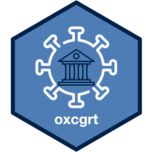
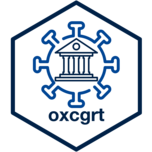
update docs/ outputs

diff --git a/docs/index.html b/docs/index.html
@@ -89,7 +89,7 @@
   <div class="contents col-md-9">
 <div id="oxcgrt-an-interface-to-the-oxford-covid-19-government-response-tracker-api-" class="section level1">
 <div class="page-header"><h1 class="hasAnchor">
-<a href="#oxcgrt-an-interface-to-the-oxford-covid-19-government-response-tracker-api-" class="anchor"></a>oxcgrt: An Interface to the Oxford COVID-19 Government Response Tracker API <img src="reference/figures/oxcgrt.png" width="200" align="right">
+<a href="#oxcgrt-an-interface-to-the-oxford-covid-19-government-response-tracker-api-" class="anchor"></a>oxcgrt: An Interface to the Oxford COVID-19 Government Response Tracker API <img src="reference/figures/logo.png" width="200" align="right">
 </h1></div>
 <!-- badges: start -->
 
@@ -141,16 +141,16 @@ And the development version from [GitHub](https://github.com/) with:
 <div class="sourceCode" id="cb3"><pre class="sourceCode R"><code class="sourceCode r"><span id="cb3-1"><a href="#cb3-1"></a><span class="co">#&gt; # A tibble: 28,208 x 8</span></span>
 <span id="cb3-2"><a href="#cb3-2"></a><span class="co">#&gt;    date_value country_code confirmed deaths stringency_actu… stringency</span></span>
 <span id="cb3-3"><a href="#cb3-3"></a><span class="co">#&gt;    &lt;date&gt;     &lt;chr&gt;            &lt;int&gt;  &lt;int&gt;            &lt;dbl&gt;      &lt;dbl&gt;</span></span>
-<span id="cb3-4"><a href="#cb3-4"></a><span class="co">#&gt;  1 2020-06-01 SEN               3645     42             72.2       72.2</span></span>
-<span id="cb3-5"><a href="#cb3-5"></a><span class="co">#&gt;  2 2020-06-01 SGP              34884     23             81.5       81.5</span></span>
-<span id="cb3-6"><a href="#cb3-6"></a><span class="co">#&gt;  3 2020-06-01 SLB                 NA     NA             33.3       33.3</span></span>
-<span id="cb3-7"><a href="#cb3-7"></a><span class="co">#&gt;  4 2020-06-01 SLE                861     46             73.2       73.2</span></span>
-<span id="cb3-8"><a href="#cb3-8"></a><span class="co">#&gt;  5 2020-06-01 SLV               2517     46            100        100  </span></span>
-<span id="cb3-9"><a href="#cb3-9"></a><span class="co">#&gt;  6 2020-06-01 SMR                671     42             57.4       57.4</span></span>
-<span id="cb3-10"><a href="#cb3-10"></a><span class="co">#&gt;  7 2020-06-01 SOM               1976     78             48.2       48.2</span></span>
-<span id="cb3-11"><a href="#cb3-11"></a><span class="co">#&gt;  8 2020-06-01 SRB              11412    243             43.5       43.5</span></span>
-<span id="cb3-12"><a href="#cb3-12"></a><span class="co">#&gt;  9 2020-06-01 SSD                994     10             85.2       85.2</span></span>
-<span id="cb3-13"><a href="#cb3-13"></a><span class="co">#&gt; 10 2020-06-01 SUR                 23      1             77.8       77.8</span></span>
+<span id="cb3-4"><a href="#cb3-4"></a><span class="co">#&gt;  1 2020-06-01 ABW                101      3             38.9       38.9</span></span>
+<span id="cb3-5"><a href="#cb3-5"></a><span class="co">#&gt;  2 2020-06-01 AFG              15205    257             84.3       84.3</span></span>
+<span id="cb3-6"><a href="#cb3-6"></a><span class="co">#&gt;  3 2020-06-01 AGO                 86      4             77.8       77.8</span></span>
+<span id="cb3-7"><a href="#cb3-7"></a><span class="co">#&gt;  4 2020-06-01 ALB               1137     33             67.6       67.6</span></span>
+<span id="cb3-8"><a href="#cb3-8"></a><span class="co">#&gt;  5 2020-06-01 AND                764     51             50         50  </span></span>
+<span id="cb3-9"><a href="#cb3-9"></a><span class="co">#&gt;  6 2020-06-01 ARE              34557    264             72.2       72.2</span></span>
+<span id="cb3-10"><a href="#cb3-10"></a><span class="co">#&gt;  7 2020-06-01 ARG              16838    539             90.7       90.7</span></span>
+<span id="cb3-11"><a href="#cb3-11"></a><span class="co">#&gt;  8 2020-06-01 AUS               7195    102             62.0       62.0</span></span>
+<span id="cb3-12"><a href="#cb3-12"></a><span class="co">#&gt;  9 2020-06-01 AUT              16642    668             53.7       53.7</span></span>
+<span id="cb3-13"><a href="#cb3-13"></a><span class="co">#&gt; 10 2020-06-01 AZE               5494     63             77.8       77.8</span></span>
 <span id="cb3-14"><a href="#cb3-14"></a><span class="co">#&gt; # … with 28,198 more rows, and 2 more variables: stringency_legacy &lt;dbl&gt;,</span></span>
 <span id="cb3-15"><a href="#cb3-15"></a><span class="co">#&gt; #   stringency_legacy_disp &lt;dbl&gt;</span></span></code></pre></div>
 <p>Important to note that in <code>get_json_time</code>, only the starting date (using the <code>from</code> argument) is specified to the desired 1 June 2020 in <code>YYYY-MM-DD</code> format. This is because by default the <code>to</code> argument (for the ending date) is set to the current date using a call to the <code><a href="https://rdrr.io/r/base/Sys.time.html">Sys.Date()</a></code> function. By default, the <code>from</code> argument is set to 2 January 2020 (2020-01-02) which is the earliest available data point for the stringency index. Therefore, to retrieve data on stringency index for all countries for all available time points up to current, the following commands can be issued:</p>
@@ -161,16 +161,16 @@ And the development version from [GitHub](https://github.com/) with:
 <div class="sourceCode" id="cb5"><pre class="sourceCode R"><code class="sourceCode r"><span id="cb5-1"><a href="#cb5-1"></a><span class="co">#&gt; # A tibble: 56,143 x 8</span></span>
 <span id="cb5-2"><a href="#cb5-2"></a><span class="co">#&gt;    date_value country_code stringency_actu… stringency stringency_lega…</span></span>
 <span id="cb5-3"><a href="#cb5-3"></a><span class="co">#&gt;    &lt;date&gt;     &lt;chr&gt;                   &lt;dbl&gt;      &lt;dbl&gt;            &lt;dbl&gt;</span></span>
-<span id="cb5-4"><a href="#cb5-4"></a><span class="co">#&gt;  1 2020-01-02 YEM                      0          0                 0  </span></span>
-<span id="cb5-5"><a href="#cb5-5"></a><span class="co">#&gt;  2 2020-01-02 ZAF                      0          0                 0  </span></span>
-<span id="cb5-6"><a href="#cb5-6"></a><span class="co">#&gt;  3 2020-01-02 ZMB                      0          0                 0  </span></span>
-<span id="cb5-7"><a href="#cb5-7"></a><span class="co">#&gt;  4 2020-01-02 ZWE                      0          0                 0  </span></span>
-<span id="cb5-8"><a href="#cb5-8"></a><span class="co">#&gt;  5 2020-01-02 TWN                      8.33       8.33             13.1</span></span>
-<span id="cb5-9"><a href="#cb5-9"></a><span class="co">#&gt;  6 2020-01-02 RKS                      0          0                 0  </span></span>
-<span id="cb5-10"><a href="#cb5-10"></a><span class="co">#&gt;  7 2020-01-02 AIA                      0          0                 0  </span></span>
-<span id="cb5-11"><a href="#cb5-11"></a><span class="co">#&gt;  8 2020-01-02 FLK                      0          0                 0  </span></span>
-<span id="cb5-12"><a href="#cb5-12"></a><span class="co">#&gt;  9 2020-01-02 MSR                      0          0                 0  </span></span>
-<span id="cb5-13"><a href="#cb5-13"></a><span class="co">#&gt; 10 2020-01-02 PCN                      0          0                 0  </span></span>
+<span id="cb5-4"><a href="#cb5-4"></a><span class="co">#&gt;  1 2020-01-02 ABW                         0          0                0</span></span>
+<span id="cb5-5"><a href="#cb5-5"></a><span class="co">#&gt;  2 2020-01-02 AFG                         0          0                0</span></span>
+<span id="cb5-6"><a href="#cb5-6"></a><span class="co">#&gt;  3 2020-01-02 AGO                         0          0                0</span></span>
+<span id="cb5-7"><a href="#cb5-7"></a><span class="co">#&gt;  4 2020-01-02 ALB                         0          0                0</span></span>
+<span id="cb5-8"><a href="#cb5-8"></a><span class="co">#&gt;  5 2020-01-02 AND                         0          0                0</span></span>
+<span id="cb5-9"><a href="#cb5-9"></a><span class="co">#&gt;  6 2020-01-02 ARE                         0          0                0</span></span>
+<span id="cb5-10"><a href="#cb5-10"></a><span class="co">#&gt;  7 2020-01-02 ARG                         0          0                0</span></span>
+<span id="cb5-11"><a href="#cb5-11"></a><span class="co">#&gt;  8 2020-01-02 AUS                         0          0                0</span></span>
+<span id="cb5-12"><a href="#cb5-12"></a><span class="co">#&gt;  9 2020-01-02 AUT                         0          0                0</span></span>
+<span id="cb5-13"><a href="#cb5-13"></a><span class="co">#&gt; 10 2020-01-02 AZE                         0          0                0</span></span>
 <span id="cb5-14"><a href="#cb5-14"></a><span class="co">#&gt; # … with 56,133 more rows, and 3 more variables: stringency_legacy_disp &lt;dbl&gt;,</span></span>
 <span id="cb5-15"><a href="#cb5-15"></a><span class="co">#&gt; #   confirmed &lt;int&gt;, deaths &lt;int&gt;</span></span></code></pre></div>
 </div>
